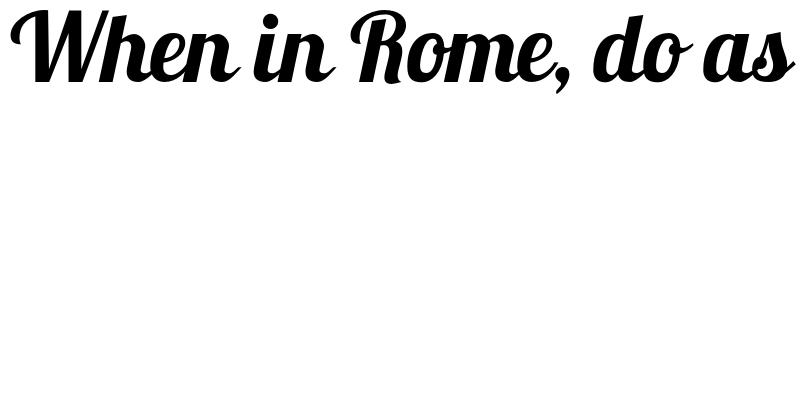
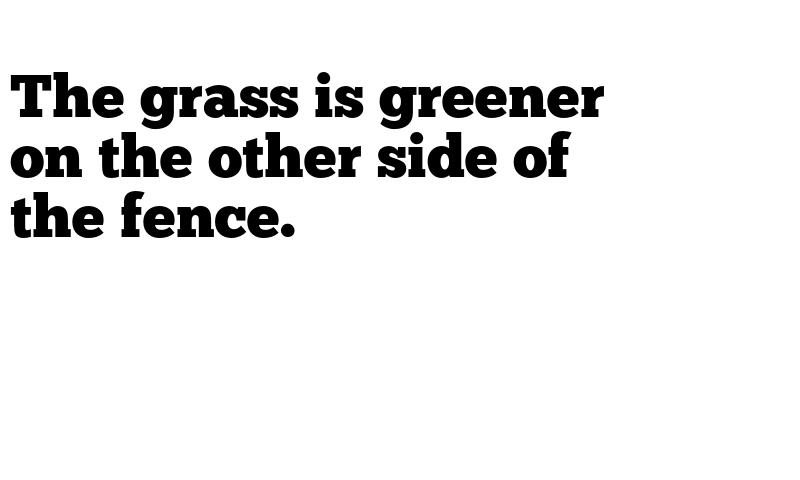
all functionalities working

Changed region(s): [[0.0, 0.0, 1.0, 0.51]]

diff --git a/print.py b/print.py
@@ -1,7 +1,7 @@
 #/usr/bin/env python3
 
-from os import system, environ, putenv, getenv, environ
-from os.path import exists
+from os import system, environ, putenv, getenv, environ, listdir
+from os.path import exists, join
 import random
 from time import sleep
 from PIL import Image, ImageDraw, ImageFont
@@ -12,6 +12,7 @@ from pygame.locals import *
 TXT_FILE = "/opt/text/text.txt"
 PRINTER_NAME = "tmt" 
 INTERVAL_SECONDS = 5
+MAX_CHARACTERS = 20
 
 sleep(0.75)
 pygame.display.init()
@@ -21,7 +22,7 @@ display_info = pygame.display.Info()
 SCREEN_WIDTH = display_info.current_w
 SCREEN_HEIGHT = display_info.current_h
 DIM = (SCREEN_WIDTH, SCREEN_HEIGHT)
-FONT_SIZE = int(SCREEN_HEIGHT/10)
+FONT_SIZE = int(SCREEN_HEIGHT/8)
 
 print(DIM)
 
@@ -41,9 +42,7 @@ YELLOW     = (255, 255,   0)
 PINK       = (255, 192, 203)
 LBLUE      = (191, 238, 244)
 
-
 lcd = None
-
 
 class Alarm(Exception):
     pass
@@ -64,6 +63,19 @@ def alarm_handler(signum, frame):
     pygame.display.set_caption('Drawing')
 
 
+def split_into_lines(sentence):
+    words = sentence.split()
+    lines = [""]
+    l = 0
+    for word in words:
+        if len(lines[l]) <= MAX_CHARACTERS:
+            lines[l] += word + " "
+        else:
+            l += 1
+            lines.append(word + " ")
+    return(lines)
+
+
 def main():
    global FONT_SIZE
    global lcd
@@ -76,22 +88,37 @@ def main():
       raise KeyboardInterrupt
    pygame.mouse.set_visible(False)
    lcd.fill((0,0,0))
+
+   # get fonts
+   font_files = listdir("fonts")
+   fonts = []
+   for font_name in font_files:
+       print(font_name)
+       fonts.append(ImageFont.truetype(join("fonts", font_name), FONT_SIZE))
+
+
    if exists(TXT_FILE):
        f = open(TXT_FILE)
        lines = f.readlines()
        n = len(lines)
        while True:
            i = int(random.random()*n)
+           f = int(random.random()*len(fonts))
            print(lines[i])
-           #system('echo "%s" | lp -d %s' % (lines[i], PRINTER_NAME))
+           sentence_lines = split_into_lines(lines[i])
+           print(sentence_lines)
            # create an image
-           out = Image.new("RGB", (400, 800), (255, 255, 255))
+           out = Image.new("RGB", (SCREEN_WIDTH , SCREEN_HEIGHT), (255, 255, 255))
            # get a font
-           fnt = ImageFont.truetype("fonts/Lobster_1.3.otf", FONT_SIZE)
+           #fnt = ImageFont.truetype("fonts/Lobster_1.3.otf", FONT_SIZE)
            # get a drawing context
            d = ImageDraw.Draw(out)
            # draw multiline text
-           d.multiline_text((10,10), lines[i], font=fnt, fill=(0, 0, 0))
+           j = 0
+           step = FONT_SIZE
+           for sentence_line in sentence_lines:
+                d.text((10,step+step*j), sentence_line, font=fonts[f], fill=(0, 0, 0))
+                j += 1
            out.show()
            image_name = "tmp.jpg"
            out.save(image_name)
@@ -99,6 +126,7 @@ def main():
            #strFormat = 'RGBA'
            #raw_str = out.tostring("raw", strFormat)
            #surface = pygame.image.fromstring(raw_str, out.size, strFormat)
+           system("lp -d %s tmp.jpg" % PRINTER_NAME)
            image = pygame.image.load(image_name)
            resized_image = pygame.transform.scale(image, (SCREEN_WIDTH, SCREEN_HEIGHT))
            pygame.display.flip()
